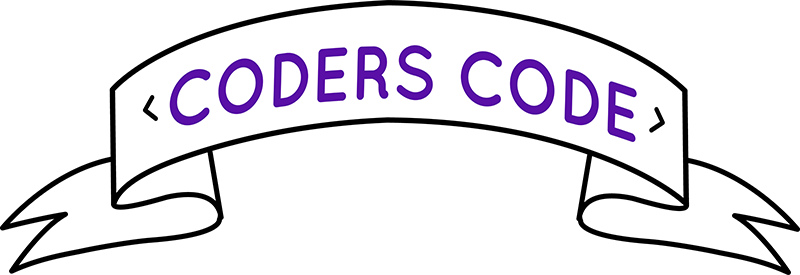
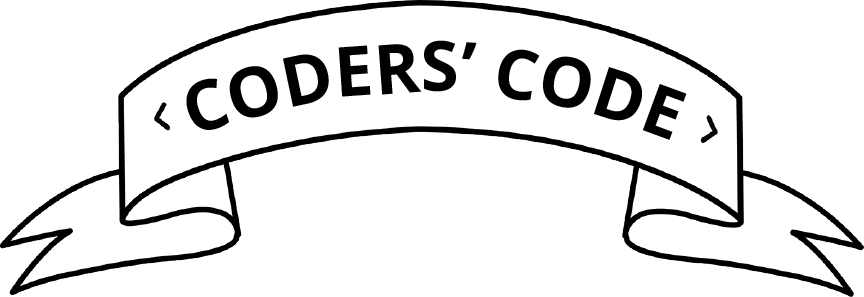
2019 themes slide

diff --git a/slides-en.html b/slides-en.html
@@ -121,7 +121,7 @@
     <!--Slide 6-->
     <section class="slide centered" data-markdown>
       <script type="text/template">
-       ![Coders Code Banner](framework/img/workshop/scroll2.png)
+       ![Coders Code Banner](framework/img/workshop/scroll.png)
          ## 1. ASK FOR HELP  <!-- .element: class="delayed" -->
          ## 2. BE PRESENT  <!-- .element: class="delayed" -->
          ## 3. TRY YOUR BEST!  <!-- .element: class="delayed" -->
@@ -152,6 +152,37 @@
        <p> In code, we call a set of instructions an <strong style="color:#00a076;">algorithm</strong>.</p><!-- .element: class="delayed" -->
 
      </script>
+    </section>
+    
+    <!--Temp slide-->
+    <section class="slide" data-markdown>
+      <script type="text/template">
+        # January's Theme is...
+        ##FUTURES
+
+        In 2019, we want Canadians to think about different issues, and share how they think we can use technology to solve them.
+
+        <strong>Challenge: Create an animation about the future!</strong>
+
+        <img alt="rocketship" src="framework/img/workshop/spaceship.gif" width="400px"/>
+
+        <em>What does the future look like? <br>Which problems will be solved, and how?</em>
+
+
+        <hr>
+        ###Some inspiration:
+        ###<a href="https://scratch.mit.edu/projects/117380569/">Future?????? by scratchtwins-691</a>
+        ###<a href="https://scratch.mit.edu/projects/117547479/">Future of food by aa26518</a>
+        <br>
+
+          <div class="dropdown">
+            <button class="dropbtn">Attributions</button>
+            <div class="dropdown-content">
+              <a href="https://dribbble.com/shots/3405612-Spaceship">Spaceship gif by Erik Arildsson3</a>
+            </div>
+          </div>
+
+       </script>
     </section>
 
     <!--Slide 9-->

diff --git a/slides-fr.html b/slides-fr.html
@@ -119,7 +119,7 @@
     <!--Diapositive 6-->
     <section class="slide centered" data-markdown>
       <script type="text/template">
-       ![Coders Code Banner](framework/img/workshop/scroll2.png)
+       ![Coders Code Banner](framework/img/workshop/scroll.png)
        #LE CODE DU PROGRAMMEUR
 
          ## 1. DEMANDEZ DE L'AIDE  <!-- .element: class="delayed" -->
@@ -152,6 +152,37 @@
 
 
      </script>
+    </section>
+
+    <!--Temp slide-->
+    <section class="slide" data-markdown>
+      <script type="text/template">
+        # January's Theme is...
+        ##FUTURES
+
+        In 2019, we want Canadians to think about different issues, and share how they think we can use technology to solve them.
+
+        <strong>Challenge: Create an animation about the future!</strong>
+
+        <img alt="rocketship" src="framework/img/workshop/spaceship.gif" width="400px"/>
+
+        <em>What does the future look like? <br>Which problems will be solved, and how?</em>
+
+
+        <hr>
+        ###Some inspiration:
+        ###<a href="https://scratch.mit.edu/projects/117380569/">Future?????? by scratchtwins-691</a>
+        ###<a href="https://scratch.mit.edu/projects/117547479/">Future of food by aa26518</a>
+        <br>
+
+          <div class="dropdown">
+            <button class="dropbtn">Attributions</button>
+            <div class="dropdown-content">
+              <a href="https://dribbble.com/shots/3405612-Spaceship">Spaceship gif by Erik Arildsson3</a>
+            </div>
+          </div>
+
+       </script>
     </section>
 
     <!--Diapositive 9-->
